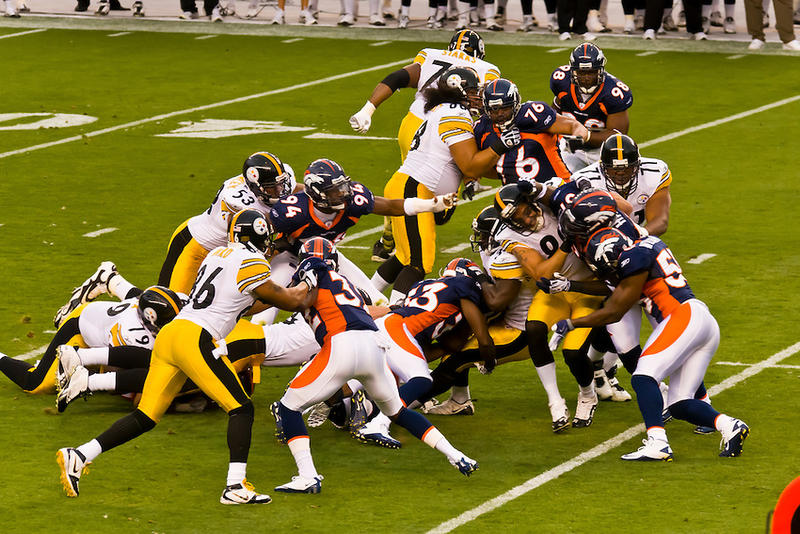
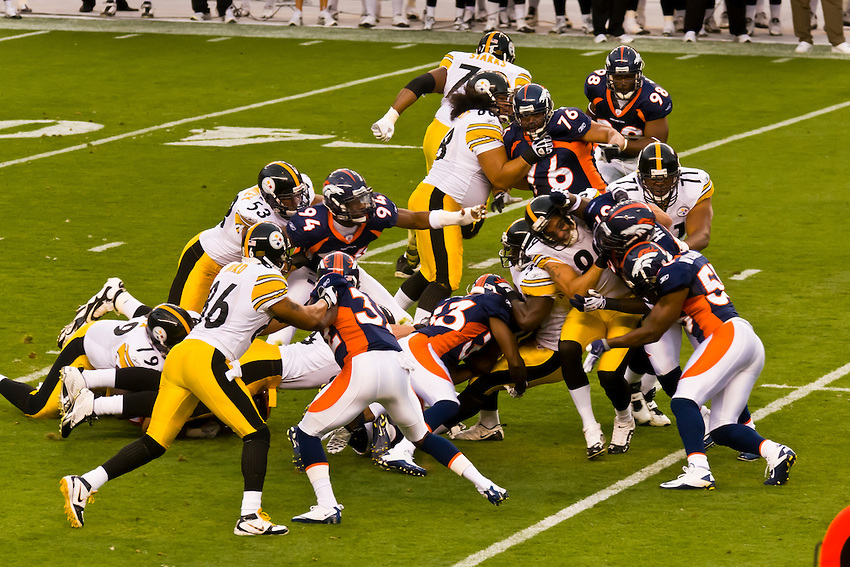
Fixed broncos.jpg and finished scrimageline

diff --git a/src/Picture.java b/src/Picture.java
@@ -113,17 +113,31 @@ public class Picture extends SimplePicture {
         }
     }
 
-    public void scrimageLine() {
-        Pixel[][] pixels = this.getPixels2D();
-        for (int i = 448; i > 135; i--) {
-            colorItBlue(pixels[i][400]);
-        }
-    }
-
     public void colorItBlue(Pixel p) {
         p.setRed(0);
         p.setGreen(51);
         p.setBlue(153);
+    }
+
+    private boolean isGrass(Pixel p) {
+        int pRed = p.getRed();   //break-out the colors of the given pixel
+        int pGreen = p.getGreen();
+        int pBlue = p.getBlue();
+        return pGreen > 95 && pGreen < 150 && (pRed - pGreen) < 15 && pGreen > pBlue;
+    }
+
+    public void scrimageLine() {
+        Pixel[][] pixels = this.getPixels2D();
+        for (int i = 448; i > 135; i--) {
+            int rounded = (int)Math.round(Math.abs(((double)Math.abs(135-i)/313)-1)*849);
+            for (int j = rounded; j < rounded+15; j++) {
+                int col = j;
+                if(col > 849)
+                    col = 849;
+                if (isGrass(pixels[i][col]))
+                    colorItBlue(pixels[i][col]);
+            }
+        }
     }
 
     public void dogView() {
@@ -259,13 +273,9 @@ public class Picture extends SimplePicture {
      * method
      */
     public static void main(String[] args) {
-        Picture bronco = new Picture("broncos.jpg");
-        bronco.scrimageLine();
-        bronco.explore();
-        /*Picture bronco = new Picture("flower1.jpg");
-        bronco.explore();
-        bronco.dogView();
-        bronco.explore();*/
+        Picture broncos = new Picture("broncos.jpg");
+        broncos.scrimageLine();
+        broncos.explore();
     }
 
 } // this } is the end of class Picture, put all new methods before this
